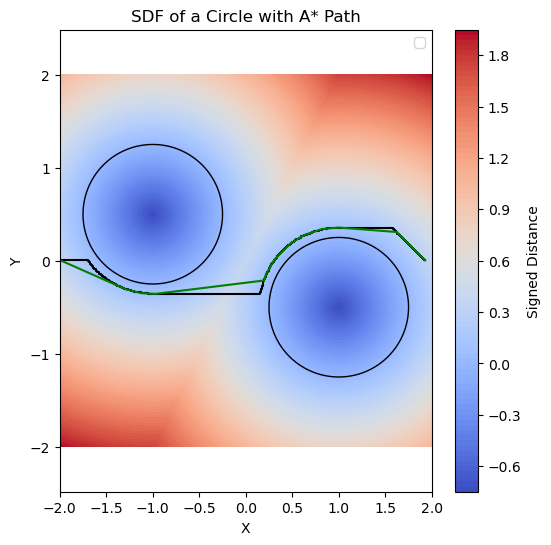
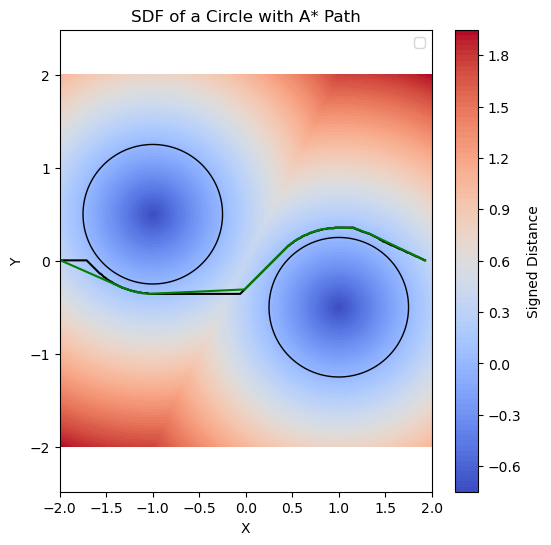
fix Astar and bounce_thr

Changed region(s): [[0.3085, 0.4679, 0.4936, 0.5615], [0.6171, 0.4055, 0.7713, 0.4991], [0.1234, 0.4679, 0.1851, 0.4991]]

diff --git a/src/Astar.py b/src/Astar.py
@@ -5,6 +5,7 @@ import numpy as np
 from scipy.interpolate import interp1d
 
 
+## Euclidian distance : 
 def heuristic(a, b):
     return math.sqrt((a[0] - b[0]) ** 2 + (a[1] - b[1]) ** 2)
 
@@ -43,7 +44,7 @@ def astar(start, goal, grid, min_distance):
 
 def get_neighbors(point):
     x, y = point
-    return [(x + 1, y), (x - 1, y), (x, y + 1), (x, y - 1)]
+    return [(x + 1, y), (x - 1, y), (x, y + 1), (x, y - 1),(x + 1, y+1),(x - 1, y-1),(x - 1, y+1),(x + 1, y - 1)]
 
 
 def is_valid_move(point, grid, min_distance):

diff --git a/src/simulation.py b/src/simulation.py
@@ -8,7 +8,7 @@ def dW(delta_t, rng=None):
     return rng.normal(loc=0.0, scale=np.sqrt(delta_t), size=(2))
 
 
-def solver(x, U, p, Dt, D, u_bg=np.zeros(2), rng=None, bounce_thr=0.01, sdf=None):
+def solver(x, U, p, Dt, D, u_bg=np.zeros(2), rng=None, bounce_thr=0.0, sdf=None):
     if rng is None:
         rng = np.random.default_rng()
     dW_t = dW(Dt, rng)

diff --git a/src/env_swimmer.py b/src/env_swimmer.py
@@ -26,7 +26,7 @@ def make_env(
 
 class MicroSwimmer(gym.Env):
     def __init__(
-        self, x_0, C, Dt, velocity_bool, n_lookahead=5, seed=None, bounce_thr=None
+        self, x_0, C, Dt, velocity_bool, n_lookahead=5, seed=None, bounce_thr=0
     ):
         super(MicroSwimmer, self).__init__()
         self.n_lookahead = n_lookahead

diff --git a/README.md b/README.md
@@ -59,7 +59,7 @@ Where:
 
 - $x_{\text{target}}$ : Target position  
 - $d$ : Distance to closest point on the path  
-- $C, \beta$ : Constant weights
+- $C \ (m.s^{-1}), \beta$ : Constant weights
 
 
 ## 🏊♂ Training Protocol
@@ -169,8 +169,20 @@ Adding velocity to state representation increase the robustness to varying backg
 With velocity includes in the state : 
 <div align="center">
 <img src="fig/return_per_training.png" alt="reward per training" width="800"/>
+<i>Figure 4</i>
 </div>
 
+Figure 4 shows the mean return across all configurations depicted above (30 different scenarios). Each point corresponds to the mean return of an agent trained with training parameters on the x-axis. 
+  
+  * First parameter :
+    * Varying background : Uniform background flow or rankine vortex.
+    * Free : No background flow
+  * Second parameter : 
+    * Varying curve : One of the path variant (see figure 2)
+    * Circle : Agent trained on a fixed circle
+  * Third parameter :
+    * Number of points in the state corresponding to the number of points in the lookahead.
+ 
 ---
 
 ### Best agent 
@@ -217,7 +229,7 @@ Increasing $\beta$ in the reward penalizes actions that lead to larger distances
 </p>
 
 **Comments** : 
-The overall return is relatively constant whereas $\beta$. Except for a very low value the agent is not following the path,as a result the return regarding the cumulative distance between the agent and the path explodes. As expected the streamlines converge faster toward the path as $\beta$ increase.
+The overall return remains relatively constant with respect to $\beta$. Except for a very low value where the agent fails to follow the path, as a result the return based on the cumulative distance between the agent and the path increases drastically. As expected, the streamlines converge faster toward the path as $\beta$ increases.
 
 ## ⚙ Main configuration parameters
 
